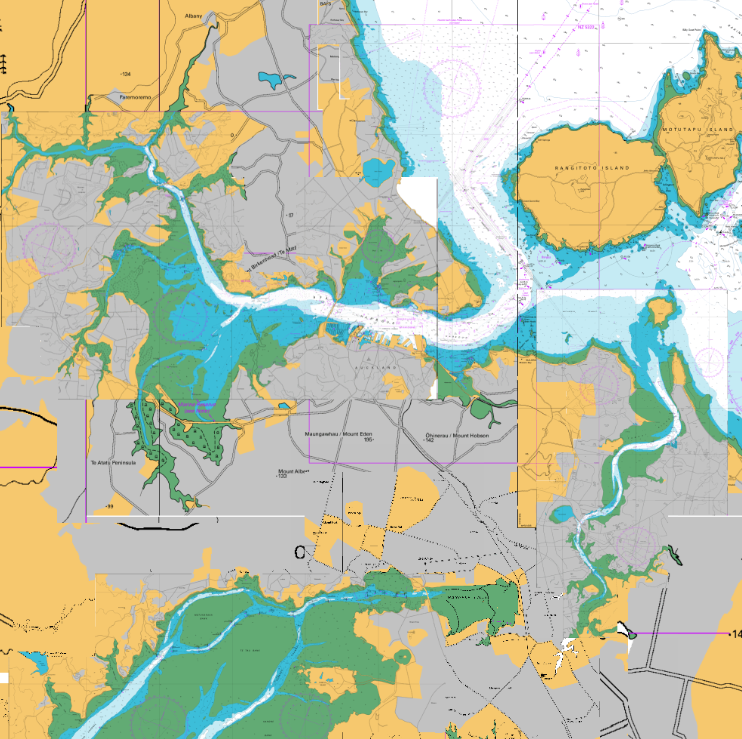
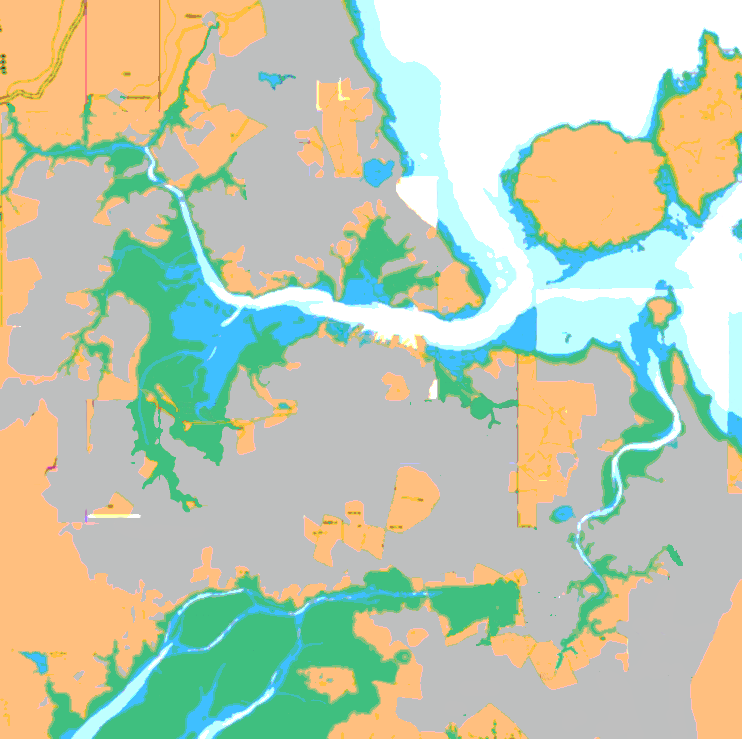
Squashed commit of the following:
commit dd0ecf1850ac2f47649378134ea0277948d87a91
Merge: e29d644 37ea95b
Author: Nick <69305722+Bac0nEater@users.noreply.github.com>
Date:   Mon Oct 2 20:21:43 2023 +1300

    Merge pull request #24 from UoA-CS715-Group12/fix-water-depth-map

    Fix water depth map

commit 37ea95b1eeb52ed93e8c0a79d0235bd044a13048
Author: Benjamin Goh <benjaminjzgoh@gmail.com>
Date:   Mon Oct 2 20:14:11 2023 +1300

    New map which is slightly cleaned up

commit 898bf1ffc37a4840cdf4866b5041baad3f5b9715
Author: Tony Cui <ycui982@aucklanduni.ac.nz>
Date:   Mon Oct 2 18:46:20 2023 +1300

    feat: Clean up water depth map

commit e29d64494717bb129a5562cd30b72f8e07028f53
Author: Nick <69305722+Bac0nEater@users.noreply.github.com>
Date:   Mon Oct 2 14:45:14 2023 +1300

    Update a_star.py

commit 8823b7b20d990cbdadbfa5d47f4c8444ff5e8697
Author: Tony Cui <ycui982@aucklanduni.ac.nz>
Date:   Sun Oct 1 22:39:28 2023 +1300

    feat: Colour tweak

diff --git a/src/visualise.py b/src/visualise.py
@@ -6,7 +6,7 @@ from matplotlib.collections import LineCollection
 
 from src.utilities import RoadTypes
 
-HIGHWAY_COLOUR = [[255 / 255, 179 / 255, 102 / 255, 1]]
+HIGHWAY_COLOUR = [[251/255, 177/255, 99/255, 1]]
 MINOR_ROAD_COLOUR = [[183 / 255, 185 / 255, 187 / 255, 1]]
 TUNNER_COLOUR = [[227 / 255, 227 / 255, 227 / 255, 1]]
 BRIDGE_COLOUR = [[219 / 255, 181 / 255, 0 / 255, 1]]
@@ -44,13 +44,13 @@ def init_plot():
     fig, ax = plt.subplots()
     ax.axis('equal')
     highways = LineCollection([], linewidths=[
-        1.8], colors=HIGHWAY_COLOUR, antialiased=False, zorder=10)
-    bridges = LineCollection([], linewidths=[2.0],
+        1.6], colors=HIGHWAY_COLOUR, zorder=10)
+    bridges = LineCollection([], linewidths=[1.8],
                              colors=BRIDGE_COLOUR, zorder=12)
     tunnels = LineCollection([], linewidths=[1.8],
                              colors=TUNNER_COLOUR, zorder=11)
     minor_lines = LineCollection(
-        [], linewidths=[1], colors=MINOR_ROAD_COLOUR, zorder=2)
+        [], linewidths=[0.8], colors=MINOR_ROAD_COLOUR, zorder=2)
 
     plt.ion()  # Turn on interactive mode
 
@@ -108,7 +108,7 @@ def visualise(map_array, road_network, highways, bridges, tunnels, minor_lines, 
         [pe.Stroke(linewidth=4, foreground=EDGE_COLOURS["TUNNEL"]), pe.Normal()])
     highways.set_segments(highways_segment_coords)
     highways.set_path_effects(
-        [pe.Stroke(linewidth=2, foreground=EDGE_COLOURS["HIGHWAY"]), pe.Normal()])
+        [pe.Stroke(linewidth=1.5, foreground=EDGE_COLOURS["HIGHWAY"]), pe.Normal()])
     minor_lines.set_segments(minor_segment_coords)
 
     ax.clear()  # Clear previous fill polygons if you want to

diff --git a/src/road_network/a_star.py b/src/road_network/a_star.py
@@ -278,9 +278,9 @@ def get_neighbors_masks(n_range):
                 gcd = math.gcd(dx, dy)
                 vector_lowest = (dx // gcd, dy // gcd)
 
-                #  neighbor needs to be at least MIN_HIGHWAY_LEN away
+                # Highway neighbor add the lowest vector
                 if dx ** 2 + dy ** 2 >= MIN_HIGHWAY_LEN ** 2:
-                    neighbors_highway.add((dx, dy))
+                    neighbors_highway.add(vector_lowest)
 
                 # Tunnel neighbor needs to be at least MIN_TUNNEL_LEN away
                 if dx ** 2 + dy ** 2 >= MIN_TUNNEL_LEN ** 2:
